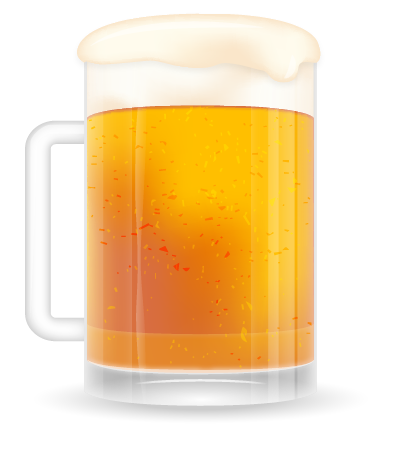
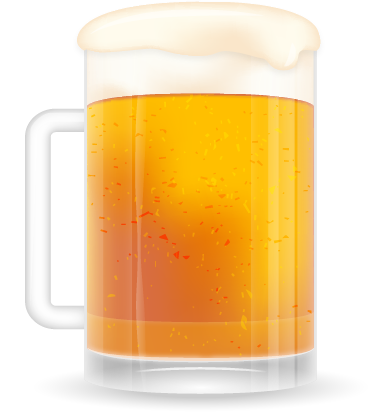
add meter bar to the chopp

diff --git a/app/assets/stylesheets/users.scss b/app/assets/stylesheets/users.scss
@@ -65,14 +65,40 @@ img.bg {
     height: 50px;
     width: 100px;
     background-color: $blue-5;
+    z-index: 2;
     label {
       font-size: 30px;
       line-height: 50px;
       color: $white;
     }
   }
+
+  .meter-bar {
+    width: 400px;
+    height: 1px;
+    background: $blue-5;
+    z-index: 1;
+    position: absolute;
+  }
 }
 
 .space-50 {
   height: 50px;
+}
+
+.chopp-grey {
+  position: absolute;
+  -webkit-filter: grayscale(100%);
+  filter: grayscale(100%);
+}
+.chopp-color {
+  position: absolute;
+  display: inline;
+  clear: none;
+  overflow: hidden;
+  width: 345px;
+
+  img {
+    position: absolute;
+  }
 }
